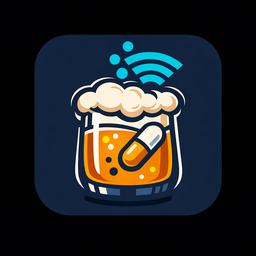
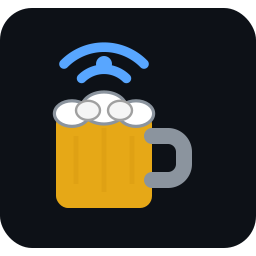
Fix device types, chart axes, feedback range, version, homepage
- Device Management: case-insensitive type check (tilt vs TILT)
- Chart X-axis: date on day boundaries, time between (Grafana style)
- Feedback chart: toggle between last 4 hours and entire brew
- Version number in About (commit count * 0.01, built into Docker)
- Homepage opens latest active brew instead of config page
- Docker icon: favicon SVG rendered as PNG (replaces Designer image)

diff --git a/app/static/app.js b/app/static/app.js
@@ -462,8 +462,9 @@ async function loadTiltDefaultCharts(deviceId) {
         options: {
           responsive: true, maintainAspectRatio: false,
           scales: {
-            x: { type: "time", time: { tooltipFormat: "MMM d, yyyy HH:mm:ss", displayFormats: { minute: "HH:mm", hour: "MMM d, HH:mm", day: "MMM d", week: "MMM d", month: "MMM yyyy" } },
-                 ticks: { color: "#8b949e", maxTicksLimit: 10 }, grid: { color: "#21262d" } },
+            x: { type: "time", time: { tooltipFormat: "MMM d, yyyy HH:mm:ss", displayFormats: { minute: "HH:mm", hour: "HH:mm", day: "MMM d", week: "MMM d", month: "MMM yyyy" } },
+                 ticks: { color: "#8b949e", maxTicksLimit: 12, major: { enabled: true }, font: ctx => ctx.tick && ctx.tick.major ? { weight: "bold", size: 11 } : { size: 10 },
+                   callback: function(val, idx, ticks) { const d = new Date(val); const hm = String(d.getHours()).padStart(2,"0") + ":" + String(d.getMinutes()).padStart(2,"0"); if (ticks[idx] && ticks[idx].major) { const mon = d.toLocaleString("en",{month:"short"}); return [mon + " " + d.getDate(), hm]; } return hm; } }, grid: { color: "#21262d" } },
             y: { grace: "10%", ticks: { color: "#8b949e" }, grid: { color: "#21262d" } },
           },
           plugins: { legend: { labels: { color: "#c9d1d9" } } },
@@ -490,8 +491,9 @@ async function loadTiltDefaultCharts(deviceId) {
         options: {
           responsive: true, maintainAspectRatio: false,
           scales: {
-            x: { type: "time", time: { tooltipFormat: "MMM d, yyyy HH:mm:ss", displayFormats: { minute: "HH:mm", hour: "MMM d, HH:mm", day: "MMM d", week: "MMM d", month: "MMM yyyy" } },
-                 ticks: { color: "#8b949e", maxTicksLimit: 10 }, grid: { color: "#21262d" } },
+            x: { type: "time", time: { tooltipFormat: "MMM d, yyyy HH:mm:ss", displayFormats: { minute: "HH:mm", hour: "HH:mm", day: "MMM d", week: "MMM d", month: "MMM yyyy" } },
+                 ticks: { color: "#8b949e", maxTicksLimit: 12, major: { enabled: true }, font: ctx => ctx.tick && ctx.tick.major ? { weight: "bold", size: 11 } : { size: 10 },
+                   callback: function(val, idx, ticks) { const d = new Date(val); const hm = String(d.getHours()).padStart(2,"0") + ":" + String(d.getMinutes()).padStart(2,"0"); if (ticks[idx] && ticks[idx].major) { const mon = d.toLocaleString("en",{month:"short"}); return [mon + " " + d.getDate(), hm]; } return hm; } }, grid: { color: "#21262d" } },
             y: { grace: "10%", ticks: { color: "#8b949e" }, grid: { color: "#21262d" } },
           },
           plugins: { legend: { labels: { color: "#c9d1d9" } } },
@@ -643,8 +645,9 @@ async function addChartSeries(chartObj, seriesArr, canvasId, deviceId, metric, r
           responsive: true, maintainAspectRatio: false,
           interaction: { mode: "index", intersect: false },
           scales: {
-            x: { type: "time", time: { tooltipFormat: "MMM d, yyyy HH:mm:ss", displayFormats: { minute: "HH:mm", hour: "MMM d, HH:mm", day: "MMM d", week: "MMM d", month: "MMM yyyy" } },
-                 ticks: { color: "#8b949e", maxTicksLimit: 10 }, grid: { color: "#21262d" } },
+            x: { type: "time", time: { tooltipFormat: "MMM d, yyyy HH:mm:ss", displayFormats: { minute: "HH:mm", hour: "HH:mm", day: "MMM d", week: "MMM d", month: "MMM yyyy" } },
+                 ticks: { color: "#8b949e", maxTicksLimit: 12, major: { enabled: true }, font: ctx => ctx.tick && ctx.tick.major ? { weight: "bold", size: 11 } : { size: 10 },
+                   callback: function(val, idx, ticks) { const d = new Date(val); const hm = String(d.getHours()).padStart(2,"0") + ":" + String(d.getMinutes()).padStart(2,"0"); if (ticks[idx] && ticks[idx].major) { const mon = d.toLocaleString("en",{month:"short"}); return [mon + " " + d.getDate(), hm]; } return hm; } }, grid: { color: "#21262d" } },
             y: { position: "left", grace: "10%", ticks: { color: "#8b949e" }, grid: { color: "#21262d" } },
           },
           plugins: { legend: { labels: { color: "#c9d1d9" } } },
@@ -727,7 +730,8 @@ async function loadRssiChart(deviceId) {
       options: {
         responsive: true, maintainAspectRatio: false,
         scales: {
-          x: { type: "time", time: { tooltipFormat: "MMM d, yyyy HH:mm:ss", displayFormats: { minute: "HH:mm", hour: "MMM d, HH:mm", day: "MMM d", week: "MMM d", month: "MMM yyyy" } }, ticks: { color: "#8b949e", maxTicksLimit: 10 }, grid: { color: "#21262d" } },
+          x: { type: "time", time: { tooltipFormat: "MMM d, yyyy HH:mm:ss", displayFormats: { minute: "HH:mm", hour: "HH:mm", day: "MMM d", week: "MMM d", month: "MMM yyyy" } }, ticks: { color: "#8b949e", maxTicksLimit: 12, major: { enabled: true }, font: ctx => ctx.tick && ctx.tick.major ? { weight: "bold", size: 11 } : { size: 10 },
+                   callback: function(val, idx, ticks) { const d = new Date(val); const hm = String(d.getHours()).padStart(2,"0") + ":" + String(d.getMinutes()).padStart(2,"0"); if (ticks[idx] && ticks[idx].major) { const mon = d.toLocaleString("en",{month:"short"}); return [mon + " " + d.getDate(), hm]; } return hm; } }, grid: { color: "#21262d" } },
           y: { grace: "10%", ticks: { color: "#8b949e" }, grid: { color: "#21262d" } },
         },
         plugins: { legend: { labels: { color: "#c9d1d9" } } },
@@ -1747,8 +1751,9 @@ async function autoPopulateBrewChart(brew, forceRebuild) {
   if (!datasets.length) return;
 
   const scales = {
-    x: { type: "time", time: { tooltipFormat: "MMM d, yyyy HH:mm:ss", displayFormats: { minute: "HH:mm", hour: "MMM d, HH:mm", day: "MMM d", week: "MMM d", month: "MMM yyyy" } },
-         ticks: { color: "#8b949e", maxTicksLimit: 10 }, grid: { color: "#21262d" } },
+    x: { type: "time", time: { tooltipFormat: "MMM d, yyyy HH:mm:ss", displayFormats: { minute: "HH:mm", hour: "HH:mm", day: "MMM d", week: "MMM d", month: "MMM yyyy" } },
+         ticks: { color: "#8b949e", maxTicksLimit: 12, major: { enabled: true }, font: ctx => ctx.tick && ctx.tick.major ? { weight: "bold", size: 11 } : { size: 10 },
+                   callback: function(val, idx, ticks) { const d = new Date(val); const hm = String(d.getHours()).padStart(2,"0") + ":" + String(d.getMinutes()).padStart(2,"0"); if (ticks[idx] && ticks[idx].major) { const mon = d.toLocaleString("en",{month:"short"}); return [mon + " " + d.getDate(), hm]; } return hm; } }, grid: { color: "#21262d" } },
     y: { position: "left", grace: "10%", title: { display: true, text: "Temperature (\u00b0C)", color: "#8b949e" },
          ticks: { color: "#8b949e" }, grid: { color: "#21262d" } },
   };
@@ -1820,6 +1825,14 @@ document.getElementById("btn-brew-clear-chart").addEventListener("click", () => 
 
 /* Feedback chart */
 let lastFeedbackSession = null;
+let feedbackRangeAll = false;
+
+function toggleFeedbackRange() {
+  feedbackRangeAll = !feedbackRangeAll;
+  const btn = document.getElementById("btn-feedback-range");
+  btn.textContent = feedbackRangeAll ? "Show: Entire Brew" : "Show: Last 4 Hours";
+  if (lastFeedbackSession) loadFeedbackChart(lastFeedbackSession, true);
+}
 
 async function loadFeedbackChart(sessionId, forceReload) {
   // Only recreate if session changed or forced
@@ -1830,10 +1843,14 @@ async function loadFeedbackChart(sessionId, forceReload) {
     const data = await (await fetch(`/api/brews/${sessionId}/feedback/log`)).json();
     if (!data.length) return;
 
-    // Last 4 hours only — keeps it readable
-    const cutoff = Date.now() - (4 * 60 * 60 * 1000);
-    const recent = data.filter(d => d.timestamp * 1000 >= cutoff);
-    const pts = recent.length ? recent : data.slice(-48); // fallback: last 48 points
+    let pts;
+    if (feedbackRangeAll) {
+      pts = data; // entire brew
+    } else {
+      const cutoff = Date.now() - (4 * 60 * 60 * 1000);
+      const recent = data.filter(d => d.timestamp * 1000 >= cutoff);
+      pts = recent.length ? recent : data.slice(-48);
+    }
 
     // Compute Y range: find min/max across all temps, pad by 2°C
     let allTemps = [];
@@ -1885,10 +1902,11 @@ async function loadFeedbackChart(sessionId, forceReload) {
         interaction: { mode: "index", intersect: false },
         scales: {
           x: { type: "time",
-            time: { tooltipFormat: "HH:mm", displayFormats: { minute: "HH:mm", hour: "HH:mm" } },
-            ticks: { color: "#8b949e", maxTicksLimit: 12 },
+            time: { tooltipFormat: "MMM d, yyyy HH:mm:ss", displayFormats: { minute: "HH:mm", hour: "HH:mm", day: "MMM d", week: "MMM d", month: "MMM yyyy" } },
+            ticks: { color: "#8b949e", maxTicksLimit: 12, major: { enabled: true }, font: ctx => ctx.tick && ctx.tick.major ? { weight: "bold", size: 11 } : { size: 10 },
+                   callback: function(val, idx, ticks) { const d = new Date(val); const hm = String(d.getHours()).padStart(2,"0") + ":" + String(d.getMinutes()).padStart(2,"0"); if (ticks[idx] && ticks[idx].major) { const mon = d.toLocaleString("en",{month:"short"}); return [mon + " " + d.getDate(), hm]; } return hm; } },
             grid: { color: "#21262d" },
-            title: { display: true, text: "Last 4 Hours", color: "#484f58", font: { size: 11 } },
+            title: { display: true, text: feedbackRangeAll ? "Entire Brew" : "Last 4 Hours", color: "#484f58", font: { size: 11 } },
           },
           y: { min: yMin, max: yMax,
             ticks: { color: "#8b949e", stepSize: 1, callback: v => v + "\u00b0C" },
@@ -2039,7 +2057,7 @@ async function loadManageDevices() {
     empty.style.display = "none";
     grid.innerHTML = devices.map(d => {
       const isLive = d.online;
-      const isTilt = d.device_type === "TILT";
+      const isTilt = d.device_type.toLowerCase() === "tilt";
       const typeClass = isTilt ? "tilt" : "rapt";
       const typeLabel = isTilt ? "Tilt Hydrometer" : "RAPT Temperature Controller";
       const displayName = d.nickname || d.name;
@@ -2296,6 +2314,24 @@ checkStatus();
 initConsole();
 loadDevices();
 loadBrewNav();
+
+// Load version into About page
+fetch("/api/version").then(r => r.json()).then(d => {
+  const el = document.getElementById("app-version");
+  if (el) el.textContent = d.version;
+}).catch(() => {});
+
+// Navigate to latest active brew on startup (or stay on config if none)
+(async () => {
+  try {
+    const brews = await (await fetch("/api/brews")).json();
+    if (brews.length) {
+      // Sort by started_at descending, show most recent
+      const latest = brews.sort((a, b) => (b.started_at || "").localeCompare(a.started_at || ""))[0];
+      showPage("brew-detail", latest.id);
+    }
+  } catch (e) {}
+})();
 
 // Periodic refreshes
 setInterval(checkStatus, 5000);

diff --git a/app/templates/index.html b/app/templates/index.html
@@ -428,7 +428,10 @@
               <p><strong>Your controller's own limits still apply.</strong> If it has a compressor cooldown of <span id="how-comp-delay">5</span> minutes, it physically cannot start a new cooling cycle faster than that. If it has a heating hysteresis of <span id="how-heat-hyst">0.3</span>&deg;C, it won't kick in until the air drifts that far below target. We can't override these &mdash; they're hardware safety limits set in the <a href="https://app.rapt.io" target="_blank" rel="noopener" style="color:#58a6ff">RAPT Portal</a>. What we <em>can</em> do is make sure the target the controller is chasing actually reflects where the beer needs to be, not just where the air is.</p>
             </div>
           </details>
-          <div class="chart-container" style="margin-top:12px">
+          <div class="controls" style="margin-top:12px;margin-bottom:8px">
+            <button id="btn-feedback-range" class="btn-small" onclick="toggleFeedbackRange()">Show: Last 4 Hours</button>
+          </div>
+          <div class="chart-container">
             <canvas id="feedback-chart"></canvas>
           </div>
         </div>
@@ -771,6 +774,7 @@
     <div id="page-about" class="page">
       <div class="panel">
         <h2>About RAPT2MQTT</h2>
+        <p style="color:#8b949e;margin-bottom:8px">Version <span id="app-version">...</span></p>
         <p>RAPT2MQTT is an open-source bridge between <strong>Kegland RAPT</strong> brewing devices and <strong>MQTT</strong>, built for homebrewers who want real control over their fermentation.</p>
         <p>This project was born from frustration with cloud-only brewery management. Your data should live on <em>your</em> network, in <em>your</em> Home Assistant, under <em>your</em> control.</p>
       </div>

diff --git a/app/main.py b/app/main.py
@@ -85,9 +85,19 @@ _log_db_stats()
 # they can delete history.db and it'll be recreated.
 
 
+# --- Version ---
+_version_file = os.path.join(os.path.dirname(__file__), "VERSION")
+APP_VERSION = open(_version_file).read().strip() if os.path.exists(_version_file) else "dev"
+
+
 @app.route("/")
 def index():
     return render_template("index.html")
+
+
+@app.route("/api/version")
+def get_version():
+    return jsonify({"version": APP_VERSION})
 
 
 # --- Config ---
